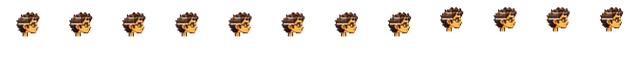
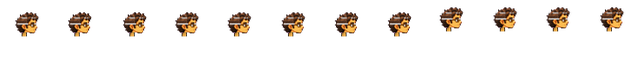
Versión 94: la cabeza sigue al torso en cada paso y todo el hobbit sube y baja 1 px al andar
Claude-Session: https://claude.ai/code/session_016LDX8s9ZoDhMCEDmCMU4bZ

diff --git a/public/index.html b/public/index.html
@@ -221,7 +221,7 @@ var SB_KEY = 'sb_publishable_1-eGqPkYOPKsW-ZEtUBo7A_16RQQGdK';
 var ATAJO = 'La Otra Comunidad';
 var STEPS_PER_KM = 1350, TOTAL_KM = 115;
 var LUGAR = {nombre:'Madrid', lat:40.43, lon:-3.81};
-var M = {"tramos": [[{"src": "assets/tramos/t1v_0.webp?v=162fa4d7", "y": -192, "v": 0.4, "hd": 3, "espejo": true}, {"src": "assets/tramos/t1v_1.webp?v=4642bb2a", "y": 209, "v": 1.0, "hd": 3, "espejo": true}], [{"src": "assets/tramos/t2v_0.webp?v=2ac7595f", "y": -192, "v": 0.4, "hd": 3, "espejo": true}, {"src": "assets/tramos/t2v_1.webp?v=07659e6a", "y": 209, "v": 1.0, "hd": 3, "espejo": true}], [{"src": "assets/tramos/t3v_0.webp?v=fb33aab2", "y": -192, "v": 0.4, "hd": 3, "espejo": true}, {"src": "assets/tramos/t3v_1.webp?v=42750449", "y": 209, "v": 1.0, "hd": 3, "espejo": true}], [{"src": "assets/tramos/t4v_0.webp?v=c2718a9c", "y": -192, "v": 0.4, "hd": 3, "espejo": true}, {"src": "assets/tramos/t4v_1.webp?v=0b370de7", "y": 209, "v": 1.0, "hd": 3, "espejo": true}], [{"src": "assets/tramos/t5_0.webp?v=f06aecc3", "y": 0, "v": 0.08}, {"src": "assets/tramos/t5_1.webp?v=f3abdd6c", "y": 31, "v": 0.3}, {"src": "assets/tramos/t5_2.webp?v=5110b3be", "y": 85, "v": 0.55}, {"src": "assets/tramos/t5_3.webp?v=a1aa4814", "y": 192, "v": 1.0}], [{"src": "assets/tramos/t6v_0.webp?v=380a0d06", "y": -192, "v": 0.4, "hd": 3, "espejo": true}, {"src": "assets/tramos/t6v_1.webp?v=ff66a92b", "y": 209, "v": 1.0, "hd": 3, "espejo": true}], [{"src": "assets/tramos/t7b_0.webp?v=4c93d6ac", "y": -192, "v": 0.4, "hd": 3, "espejo": true}, {"src": "assets/tramos/t7b_1.webp?v=16982fdd", "y": 210, "v": 1.0, "hd": 3, "espejo": true}], [{"src": "assets/tramos/t8b_0.webp?v=e0185a6c", "y": -192, "v": 0.4, "hd": 3, "espejo": true}, {"src": "assets/tramos/t8b_1.webp?v=5989f657", "y": 210, "v": 1.0, "hd": 3, "espejo": true}]], "arturo": ["assets/pj/arturo_normal.webp?v=7db8d380", "assets/pj/arturo_lluvia.webp?v=410e29f0", "assets/pj/arturo_noche.webp?v=a85f8b09", "assets/pj/arturo_calor.webp?v=5248314d"], "vecinos": ["assets/pj/vecino_1.webp?v=8c5299d1", "assets/pj/vecino_2.webp?v=0ad454f5", "assets/pj/vecino_3.webp?v=7460ffb8", "assets/pj/vecino_4.webp?v=a9dbcc5b"], "faces": "assets/pj/caras9.webp?v=749b1655", "logo": "assets/logo.webp?v=6e5698e6", "mj": {"pan": "assets/mj/zurron_pan.webp?v=eef983d0", "manta": "assets/mj/zurron_manta.webp?v=496c23db", "cuerda": "assets/mj/zurron_cuerda.webp?v=01c52897", "cantimplora": "assets/mj/zurron_cantimplora.webp?v=834316a1", "queso": "assets/mj/zurron_queso.webp?v=7897f985", "mapa": "assets/mj/zurron_mapa.webp?v=77a52314", "farol": "assets/mj/zurron_farol.webp?v=503f7f85", "pipa": "assets/mj/zurron_pipa.webp?v=ff72de42", "sillon": "assets/mj/zurron_sillon.webp?v=e2de97af", "reloj": "assets/mj/zurron_reloj.webp?v=f2e9850f", "cucharas": "assets/mj/zurron_cucharas.webp?v=ddf4903c", "paraguas": "assets/mj/zurron_paraguas.webp?v=29a8c29a", "jarron": "assets/mj/zurron_jarron.webp?v=0e426668", "libraco": "assets/mj/zurron_libraco.webp?v=d1d0c91f", "arbol": "assets/mj/arbol.webp?v=1d1e130a", "jinete1": "assets/mj/jinete1.webp?v=1bdb694e", "jinete2": "assets/mj/jinete2.webp?v=3dc1bbb4", "anillo": "assets/mj/anillo.webp?v=f785c169", "seta1": "assets/mj/seta1.webp?v=9166bdf3", "seta2": "assets/mj/seta2.webp?v=93212779", "seta3": "assets/mj/seta3.webp?v=a212aa81", "perro1": "assets/mj/perro1.webp?v=69bf8c3a", "perro2": "assets/mj/perro2.webp?v=b3a10435", "perro3": "assets/mj/perro3.webp?v=a5e4e2f7", "hoyo": "assets/mj/hoyo.webp?v=d29f43a1", "balsa1": "assets/mj/balsa1.webp?v=d45a7f5d", "balsa2": "assets/mj/balsa2.webp?v=d2719116", "rio": "assets/mj/rio.webp?v=aafc6b10", "muelle": "assets/mj/muelle.webp?v=592eaa57", "sombra": "assets/mj/sombra.webp?v=0652e012", "juncos": "assets/mj/juncos.webp?v=74e1fdc4"}, "papiro": "assets/papiro.webp?v=abe066ba", "andar": {"src": "assets/pj/arturo_andar.webp?v=7e62a290", "n": 6, "fw": 53.0, "h": 74}, "mapa": {"src": "assets/mapa2.webp?v=ce21c701", "w": 1200, "h": 4050, "ruta": [[596, 4048], [596, 4013], [456, 3532], [694, 3372], [745, 3094], [604, 2913], [623, 2816], [640, 2699], [655, 2640], [627, 2506], [603, 2143], [639, 1918], [609, 1630], [679, 1534], [656, 1331], [660, 1230], [677, 1154], [726, 1037], [658, 973], [578, 732], [641, 561], [507, 433], [615, 315], [654, 70], [654, 0]], "lugares": [[0, "Bols\u00f3n Cerrado", 4013], [5, "Delagua", 3532], [15, "Colinas Verdes", 3372], [35, "Bosque Cerrado", 3094], [55, "Atajo", 2913], [75, "La granja", 2816], [90, "Calzada", 2699], [110, "Balsadera", 2640], [115, "Cricava", 2506], [120, "La Cerca", 2143], [130, "Bosque Viejo", 1918], [145, "El Tornasauce", 1630], [150, "Casa de Tom Bombadil", 1534], [175, "Quebradas de los T\u00famulos", 1331], [200, "Camino del Este", 1230], [210, "Bree", 1154], [225, "Bosque de Chet", 1037], [250, "Pantanos de Moscagua", 973], [370, "Cima de los Vientos", 732], [530, "Puente \u00daltimo", 561], [600, "Landas de los Trolls", 433], [720, "Vado del Bruinen", 315], [740, "Rivendel", 70]]}, "equipo": {"capa": "assets/eq/capa.webp?v=0122b549", "sombrero": "assets/eq/sombrero.webp?v=f7dfac1a", "panuelo_sam": "assets/eq/panuelo_sam.webp?v=1a80a564", "cazo": "assets/eq/cazo.webp?v=22f7f48c", "broche": "assets/eq/broche.webp?v=6109e8ac", "panuelo_rojo": "assets/eq/panuelo_rojo.webp?v=fd15a308", "cantimplora_cinto": "assets/eq/cantimplora_cinto.webp?v=00c887d2", "pluma": "assets/eq/pluma.webp?v=1d6b2dd4", "gafas": "assets/eq/gafas.webp?v=0f0b85f1", "tiara": "assets/eq/tiara.webp?v=7de8e48f"}, "prologo": {"video": "assets/prologo/prologo.mp4?v=6f226176", "poster": "assets/prologo/poster.webp?v=0afee73e", "casa": "assets/prologo/casa.webp?v=e13a1dd5"}, "ilustraciones": ["assets/prologo/forja.webp?v=3a138e40", "assets/prologo/anillo.webp?v=0773b67f", "assets/prologo/guerra.webp?v=3dbb76a0", "assets/prologo/caido.webp?v=3f00fc99", "assets/prologo/rio.webp?v=f0525166", "assets/prologo/cueva.webp?v=53a6de1b", "assets/prologo/puerta.webp?v=9be18752", "assets/prologo/camino.webp?v=8554a997"], "npc": {"mago": ["assets/pj/mago_normal.webp?v=2dcb7716", "assets/pj/mago_lluvia.webp?v=3e964785", "assets/pj/mago_noche.webp?v=f6641a57", "assets/pj/mago_calor.webp?v=c90085e7"], "sombrero_azul": ["assets/pj/sombrero_azul_normal.webp?v=49dc044e", "assets/pj/sombrero_azul_lluvia.webp?v=dd90bf2a", "assets/pj/sombrero_azul_noche.webp?v=cf98f05d", "assets/pj/sombrero_azul_calor.webp?v=d65dd5f8"]}, "libro": {"0": "assets/libro/p1.webp?v=ef869ff9", "1": "assets/libro/p2.webp?v=6100887a", "2": "assets/libro/p3.webp?v=f87fd195", "3": "assets/libro/p4.webp?v=8c0c0014", "4": "assets/libro/p5.webp?v=a47588b7", "5": "assets/libro/p6.webp?v=7950004b", "6": "assets/libro/p7.webp?v=d7e44576", "7": "assets/libro/p8.webp?v=6766a419"}, "ropa": {"pantalon": "assets/pj/ropa_pantalon.webp?v=c61a7146", "capa": "assets/pj/ropa_capa.webp?v=e1faa8bf", "capa_f": "assets/pj/ropa_capa_f.webp?v=0c709b85", "capaFrame": {"fw": 84, "ox": -31}}, "props": {"senal": "assets/props/senal.webp?v=e7b2f572", "ovejas": "assets/props/ovejas.webp?v=311f376f", "carretilla": "assets/props/carretilla.webp?v=056e52f2", "piedra": "assets/props/piedra.webp?v=b27db386", "lena": "assets/props/lena.webp?v=4165f85f", "colmenas": "assets/props/colmenas.webp?v=b70b723c", "valla": "assets/props/valla.webp?v=4d295390", "setas": "assets/props/setas.webp?v=ce1dae4d", "pozo": "assets/props/pozo.webp?v=037c838e", "banco": "assets/props/banco.webp?v=c317202b", "zorro": "assets/props/zorro.webp?v=2bfaa8b8", "carro_heno": "assets/props/carro_heno.webp?v=d90f13e9"}, "escenas": [{"km": 9, "capas": [{"src": "assets/tramos/e09v_0.webp?v=9b272767", "y": -192, "v": 0.4, "hd": 3, "espejo": true}, {"src": "assets/tramos/e09v_1.webp?v=626f2e28", "y": 209, "v": 1.0, "hd": 3, "espejo": true}]}, {"km": 25, "capas": [{"src": "assets/tramos/e25_0.webp?v=f874360c", "y": -192, "v": 0.4, "hd": 3, "espejo": true}, {"src": "assets/tramos/e25_1.webp?v=dc8516e2", "y": 209, "v": 1.0, "hd": 3, "espejo": true}]}, {"km": 45, "capas": [{"src": "assets/tramos/e45_0.webp?v=0c496962", "y": -192, "v": 0.4, "hd": 3, "espejo": true}, {"src": "assets/tramos/e45_1.webp?v=f8b71963", "y": 209, "v": 1.0, "hd": 3, "espejo": true}]}, {"km": 65, "capas": [{"src": "assets/tramos/e65_0.webp?v=a730a4cb", "y": -192, "v": 0.4, "hd": 3, "espejo": true}, {"src": "assets/tramos/e65_1.webp?v=af390ea6", "y": 209, "v": 1.0, "hd": 3, "espejo": true}]}, {"km": 80, "capas": [{"src": "assets/tramos/e80_0.webp?v=2ae90a84", "y": -192, "v": 0.4, "hd": 3, "espejo": true}, {"src": "assets/tramos/e80_1.webp?v=656134e8", "y": 209, "v": 1.0, "hd": 3, "espejo": true}]}, {"km": 100, "capas": [{"src": "assets/tramos/e100_0.webp?v=96b4d4c3", "y": -192, "v": 0.4, "hd": 3, "espejo": true}, {"src": "assets/tramos/e100_1.webp?v=ff63ade0", "y": 209, "v": 1.0, "hd": 3, "espejo": true}]}, {"km": 113, "capas": [{"src": "assets/tramos/e113_0.webp?v=2f8c2840", "y": -192, "v": 0.4, "hd": 3, "espejo": true}, {"src": "assets/tramos/e113_1.webp?v=343cbb60", "y": 209, "v": 1.0, "hd": 3, "espejo": true}]}], "objetos": {"casa": "assets/mj/obj_casa.webp?v=11955867", "pipa": "assets/mj/obj_pipa.webp?v=9310f0ce", "hoja": "assets/mj/obj_hoja.webp?v=a4fb68a5", "estrella": "assets/mj/obj_estrella.webp?v=2718a702", "cayado": "assets/mj/obj_cayado.webp?v=346609ad", "cesta": "assets/mj/obj_cesta.webp?v=d1e05991", "farol": "assets/mj/obj_farol.webp?v=3c67590e", "balsa": "assets/mj/obj_balsa.webp?v=fcd81db0"}, "ropaIco": {"capa": "assets/eq/capa.webp?v=0122b549", "capa_verde": "assets/eq/capa_verde.webp?v=b5cc373a", "capa_granate": "assets/eq/capa_granate.webp?v=ec0bde53", "capa_gris": "assets/eq/capa_gris.webp?v=d2a75931", "pant_verde": "assets/eq/pant_verde.webp?v=1b3a8a49", "pant_azul": "assets/eq/pant_azul.webp?v=873e7563", "pant_gris": "assets/eq/pant_gris.webp?v=dc39d40e", "pant_mostaza": "assets/eq/pant_mostaza.webp?v=a53bb81c"}, "andarPJ": {"fer": {"src": "assets/pj/andar_fer.webp?v=a1960a01", "pantalon": "assets/pj/ropa_pantalon_fer.webp?v=ddc157ee", "capa": "assets/pj/ropa_capa_fer.webp?v=4ec3bc47", "capa_f": "assets/pj/ropa_capa_f_fer.webp?v=16a7a4cc", "n": 8, "ms": 160, "vel": 0.0356, "dx": [0, -3, 2, 2, -3, -3, 3, 4]}, "patri": {"src": "assets/pj/andar_patri.webp?v=6ce8bf24", "pantalon": "assets/pj/ropa_pantalon_patri.webp?v=3f92d97d", "capa": "assets/pj/ropa_capa_patri.webp?v=69ac1f75", "capa_f": "assets/pj/ropa_capa_f_patri.webp?v=a9eb8c68", "n": 8, "ms": 160, "vel": 0.0356, "dx": [0, -3, 2, 2, -3, -3, 3, 4]}, "juanpablo": {"src": "assets/pj/andar_juanpablo.webp?v=c89365f6", "pantalon": "assets/pj/ropa_pantalon_juanpablo.webp?v=eabcf1f7", "capa": "assets/pj/ropa_capa_juanpablo.webp?v=ef786ba2", "capa_f": "assets/pj/ropa_capa_f_juanpablo.webp?v=084549cb", "n": 8, "ms": 160, "vel": 0.0356, "dx": [0, 0, 0, 0, 0, 0, 0, 0]}, "arturo": {"src": "assets/pj/andar_arturo.webp?v=c15a4cbf", "pantalon": "assets/pj/ropa_pantalon_arturo.webp?v=5fb87995", "capa": "assets/pj/ropa_capa_arturo.webp?v=0658b58c", "capa_f": "assets/pj/ropa_capa_f_arturo.webp?v=f4b0b94a", "n": 8, "ms": 160, "vel": 0.0344, "dx": [0, -4, 0, 4, 0, -4, 0, 4]}, "edo": {"src": "assets/pj/andar_edo.webp?v=874feaf0", "pantalon": "assets/pj/ropa_pantalon_edo.webp?v=be0ca919", "capa": "assets/pj/ropa_capa_edo.webp?v=16ef3acf", "capa_f": "assets/pj/ropa_capa_f_edo.webp?v=50e3d11f", "n": 8, "ms": 160, "vel": 0.0344, "dx": [0, -4, 0, 4, 0, -4, 0, 4]}}, "menu": {"forja": "assets/menu/forja.webp?v=32eaa4c1", "anillo": "assets/menu/anillo.webp?v=2edff033", "chispas": {"src": "assets/menu/chispas.webp?v=7a0e8284", "n": 6, "fw": 125, "h": 262}, "herrero": {"src": "assets/menu/herrero.webp?v=8d4a16d2", "n": 4, "fw": 320, "h": 295}}, "ui": {"redondo": "assets/ui/redondo.webp?v=553a38ab", "redondo_on": "assets/ui/redondo_on.webp?v=d47c1e86", "largo": "assets/ui/largo.webp?v=21b6a8ab", "largo_on": "assets/ui/largo_on.webp?v=b4d3082f", "i_mapa": "assets/ui/i_mapa.webp?v=baf5a951", "i_libro": "assets/ui/i_libro.webp?v=65e306af", "i_comunidad": "assets/ui/i_comunidad.webp?v=ba394914", "i_zurron": "assets/ui/i_zurron.webp?v=801f3a01", "i_sync": "assets/ui/i_sync.webp?v=56462d84", "i_hoja": "assets/ui/i_hoja.webp?v=f8fe9299", "placa_pasos": "assets/ui/placa_pasos.webp?v=12bec8e1", "destellos": "assets/ui/destellos.webp?v=b74326dc", "fondo_menu": "assets/ui/fondo_menu.webp?v=0cf7211a", "hoja_menu": "assets/ui/hoja_menu.webp?v=82f13f93"}, "facesN": 9, "quietoPJ": {"fer": {"src": "assets/pj/quieto_fer.webp?v=2d287b87", "pantalon": "assets/pj/ropa_pantalon_quieto_fer.webp?v=2a5fa9ec", "capa": "assets/pj/ropa_capa_quieto_fer.webp?v=748a63a8", "capa_f": "assets/pj/ropa_capa_f_quieto_fer.webp?v=9d786b24", "n": 4, "ms": 450}, "patri": {"src": "assets/pj/quieto_patri.webp?v=e8935790", "pantalon": "assets/pj/ropa_pantalon_quieto_patri.webp?v=b4969e48", "capa": "assets/pj/ropa_capa_quieto_patri.webp?v=26634d11", "capa_f": "assets/pj/ropa_capa_f_quieto_patri.webp?v=328aff4d", "n": 4, "ms": 450}, "adrian": {"src": "assets/pj/quieto_adrian.webp?v=b81deb89", "pantalon": "assets/pj/ropa_pantalon_quieto_adrian.webp?v=5525cad1", "capa": "assets/pj/ropa_capa_quieto_adrian.webp?v=a22c0b8a", "capa_f": "assets/pj/ropa_capa_f_quieto_adrian.webp?v=6c51806e", "n": 4, "ms": 450}, "carlos": {"src": "assets/pj/quieto_carlos.webp?v=c5a30670", "pantalon": "assets/pj/ropa_pantalon_quieto_carlos.webp?v=b82e99a6", "capa": "assets/pj/ropa_capa_quieto_carlos.webp?v=5d3f98c6", "capa_f": "assets/pj/ropa_capa_f_quieto_carlos.webp?v=d8920044", "n": 4, "ms": 450}, "juanpablo": {"src": "assets/pj/quieto_juanpablo.webp?v=6e704838", "pantalon": "assets/pj/ropa_pantalon_quieto_juanpablo.webp?v=cd8fb44e", "capa": "assets/pj/ropa_capa_quieto_juanpablo.webp?v=c7daa765", "capa_f": "assets/pj/ropa_capa_f_quieto_juanpablo.webp?v=383cb623", "n": 4, "ms": 450}, "arturo": {"src": "assets/pj/quieto_arturo.webp?v=a137794f", "pantalon": "assets/pj/ropa_pantalon_quieto_arturo.webp?v=41e5d86c", "capa": "assets/pj/ropa_capa_quieto_arturo.webp?v=4d687a5b", "capa_f": "assets/pj/ropa_capa_f_quieto_arturo.webp?v=31b81915", "n": 4, "ms": 450}, "edo": {"src": "assets/pj/quieto_edo.webp?v=25a809fa", "pantalon": "assets/pj/ropa_pantalon_quieto_edo.webp?v=ec1ecdb7", "capa": "assets/pj/ropa_capa_quieto_edo.webp?v=f5d0127d", "capa_f": "assets/pj/ropa_capa_f_quieto_edo.webp?v=ff69cc07", "n": 4, "ms": 450}}, "fp": [{"tramo": 3, "fondo": "assets/fp/bosque_fondo.webp?v=d94309cc", "delante": "assets/fp/bosque_delante.webp?v=4903fead", "manos": {"src": "assets/fp/manos.webp?v=7ba225f5", "n": 4, "fw": 325, "h": 434}, "fuga": [0.5, 0.56], "luces": [[0.47, 0.565], [0.51, 0.548], [0.545, 0.565], [0.455, 0.575]], "hasta": 45}], "escenaElfos": ["assets/escenas/elfos1.webp?v=821cfc4d", "assets/escenas/elfos2.webp?v=a89595ed", "assets/escenas/elfos3.webp?v=2f3b37c6"], "entreactos": {"1": {"video": "assets/entreactos/acto1.mp4?v=24d497d1", "poster": "assets/entreactos/acto1.webp?v=4f4a3739"}}, "capas": {"capas": {"cuerpo": "assets/pj/capas/cuerpo.webp?v=66200e3b", "capa": "assets/pj/capas/capa.webp?v=2d14e53d", "pantalon": "assets/pj/capas/pantalon.webp?v=fc330ced", "mochila": "assets/pj/capas/mochila.webp?v=8a00b540", "cantimplora": "assets/pj/capas/cantimplora.webp?v=6987245d"}, "cabezas": {"arturo": "assets/pj/capas/cab_arturo.webp?v=1e887d1c", "fer": "assets/pj/capas/cab_fer.webp?v=2d348472", "patri": "assets/pj/capas/cab_patri.webp?v=2049b85b", "edo": "assets/pj/capas/cab_edo.webp?v=b253ae95", "carlos": "assets/pj/capas/cab_carlos.webp?v=aef9f28a", "porru": "assets/pj/capas/cab_porru.webp?v=f725902e", "adrian": "assets/pj/capas/cab_adrian.webp?v=fc9d4feb", "rodri": "assets/pj/capas/cab_rodri.webp?v=0bfc12ad", "juanpablo": "assets/pj/capas/cab_juanpablo.webp?v=986fa199"}}};
+var M = {"tramos": [[{"src": "assets/tramos/t1v_0.webp?v=162fa4d7", "y": -192, "v": 0.4, "hd": 3, "espejo": true}, {"src": "assets/tramos/t1v_1.webp?v=4642bb2a", "y": 209, "v": 1.0, "hd": 3, "espejo": true}], [{"src": "assets/tramos/t2v_0.webp?v=2ac7595f", "y": -192, "v": 0.4, "hd": 3, "espejo": true}, {"src": "assets/tramos/t2v_1.webp?v=07659e6a", "y": 209, "v": 1.0, "hd": 3, "espejo": true}], [{"src": "assets/tramos/t3v_0.webp?v=fb33aab2", "y": -192, "v": 0.4, "hd": 3, "espejo": true}, {"src": "assets/tramos/t3v_1.webp?v=42750449", "y": 209, "v": 1.0, "hd": 3, "espejo": true}], [{"src": "assets/tramos/t4v_0.webp?v=c2718a9c", "y": -192, "v": 0.4, "hd": 3, "espejo": true}, {"src": "assets/tramos/t4v_1.webp?v=0b370de7", "y": 209, "v": 1.0, "hd": 3, "espejo": true}], [{"src": "assets/tramos/t5_0.webp?v=f06aecc3", "y": 0, "v": 0.08}, {"src": "assets/tramos/t5_1.webp?v=f3abdd6c", "y": 31, "v": 0.3}, {"src": "assets/tramos/t5_2.webp?v=5110b3be", "y": 85, "v": 0.55}, {"src": "assets/tramos/t5_3.webp?v=a1aa4814", "y": 192, "v": 1.0}], [{"src": "assets/tramos/t6v_0.webp?v=380a0d06", "y": -192, "v": 0.4, "hd": 3, "espejo": true}, {"src": "assets/tramos/t6v_1.webp?v=ff66a92b", "y": 209, "v": 1.0, "hd": 3, "espejo": true}], [{"src": "assets/tramos/t7b_0.webp?v=4c93d6ac", "y": -192, "v": 0.4, "hd": 3, "espejo": true}, {"src": "assets/tramos/t7b_1.webp?v=16982fdd", "y": 210, "v": 1.0, "hd": 3, "espejo": true}], [{"src": "assets/tramos/t8b_0.webp?v=e0185a6c", "y": -192, "v": 0.4, "hd": 3, "espejo": true}, {"src": "assets/tramos/t8b_1.webp?v=5989f657", "y": 210, "v": 1.0, "hd": 3, "espejo": true}]], "arturo": ["assets/pj/arturo_normal.webp?v=7db8d380", "assets/pj/arturo_lluvia.webp?v=410e29f0", "assets/pj/arturo_noche.webp?v=a85f8b09", "assets/pj/arturo_calor.webp?v=5248314d"], "vecinos": ["assets/pj/vecino_1.webp?v=8c5299d1", "assets/pj/vecino_2.webp?v=0ad454f5", "assets/pj/vecino_3.webp?v=7460ffb8", "assets/pj/vecino_4.webp?v=a9dbcc5b"], "faces": "assets/pj/caras9.webp?v=749b1655", "logo": "assets/logo.webp?v=6e5698e6", "mj": {"pan": "assets/mj/zurron_pan.webp?v=eef983d0", "manta": "assets/mj/zurron_manta.webp?v=496c23db", "cuerda": "assets/mj/zurron_cuerda.webp?v=01c52897", "cantimplora": "assets/mj/zurron_cantimplora.webp?v=834316a1", "queso": "assets/mj/zurron_queso.webp?v=7897f985", "mapa": "assets/mj/zurron_mapa.webp?v=77a52314", "farol": "assets/mj/zurron_farol.webp?v=503f7f85", "pipa": "assets/mj/zurron_pipa.webp?v=ff72de42", "sillon": "assets/mj/zurron_sillon.webp?v=e2de97af", "reloj": "assets/mj/zurron_reloj.webp?v=f2e9850f", "cucharas": "assets/mj/zurron_cucharas.webp?v=ddf4903c", "paraguas": "assets/mj/zurron_paraguas.webp?v=29a8c29a", "jarron": "assets/mj/zurron_jarron.webp?v=0e426668", "libraco": "assets/mj/zurron_libraco.webp?v=d1d0c91f", "arbol": "assets/mj/arbol.webp?v=1d1e130a", "jinete1": "assets/mj/jinete1.webp?v=1bdb694e", "jinete2": "assets/mj/jinete2.webp?v=3dc1bbb4", "anillo": "assets/mj/anillo.webp?v=f785c169", "seta1": "assets/mj/seta1.webp?v=9166bdf3", "seta2": "assets/mj/seta2.webp?v=93212779", "seta3": "assets/mj/seta3.webp?v=a212aa81", "perro1": "assets/mj/perro1.webp?v=69bf8c3a", "perro2": "assets/mj/perro2.webp?v=b3a10435", "perro3": "assets/mj/perro3.webp?v=a5e4e2f7", "hoyo": "assets/mj/hoyo.webp?v=d29f43a1", "balsa1": "assets/mj/balsa1.webp?v=d45a7f5d", "balsa2": "assets/mj/balsa2.webp?v=d2719116", "rio": "assets/mj/rio.webp?v=aafc6b10", "muelle": "assets/mj/muelle.webp?v=592eaa57", "sombra": "assets/mj/sombra.webp?v=0652e012", "juncos": "assets/mj/juncos.webp?v=74e1fdc4"}, "papiro": "assets/papiro.webp?v=abe066ba", "andar": {"src": "assets/pj/arturo_andar.webp?v=7e62a290", "n": 6, "fw": 53.0, "h": 74}, "mapa": {"src": "assets/mapa2.webp?v=ce21c701", "w": 1200, "h": 4050, "ruta": [[596, 4048], [596, 4013], [456, 3532], [694, 3372], [745, 3094], [604, 2913], [623, 2816], [640, 2699], [655, 2640], [627, 2506], [603, 2143], [639, 1918], [609, 1630], [679, 1534], [656, 1331], [660, 1230], [677, 1154], [726, 1037], [658, 973], [578, 732], [641, 561], [507, 433], [615, 315], [654, 70], [654, 0]], "lugares": [[0, "Bols\u00f3n Cerrado", 4013], [5, "Delagua", 3532], [15, "Colinas Verdes", 3372], [35, "Bosque Cerrado", 3094], [55, "Atajo", 2913], [75, "La granja", 2816], [90, "Calzada", 2699], [110, "Balsadera", 2640], [115, "Cricava", 2506], [120, "La Cerca", 2143], [130, "Bosque Viejo", 1918], [145, "El Tornasauce", 1630], [150, "Casa de Tom Bombadil", 1534], [175, "Quebradas de los T\u00famulos", 1331], [200, "Camino del Este", 1230], [210, "Bree", 1154], [225, "Bosque de Chet", 1037], [250, "Pantanos de Moscagua", 973], [370, "Cima de los Vientos", 732], [530, "Puente \u00daltimo", 561], [600, "Landas de los Trolls", 433], [720, "Vado del Bruinen", 315], [740, "Rivendel", 70]]}, "equipo": {"capa": "assets/eq/capa.webp?v=0122b549", "sombrero": "assets/eq/sombrero.webp?v=f7dfac1a", "panuelo_sam": "assets/eq/panuelo_sam.webp?v=1a80a564", "cazo": "assets/eq/cazo.webp?v=22f7f48c", "broche": "assets/eq/broche.webp?v=6109e8ac", "panuelo_rojo": "assets/eq/panuelo_rojo.webp?v=fd15a308", "cantimplora_cinto": "assets/eq/cantimplora_cinto.webp?v=00c887d2", "pluma": "assets/eq/pluma.webp?v=1d6b2dd4", "gafas": "assets/eq/gafas.webp?v=0f0b85f1", "tiara": "assets/eq/tiara.webp?v=7de8e48f"}, "prologo": {"video": "assets/prologo/prologo.mp4?v=6f226176", "poster": "assets/prologo/poster.webp?v=0afee73e", "casa": "assets/prologo/casa.webp?v=e13a1dd5"}, "ilustraciones": ["assets/prologo/forja.webp?v=3a138e40", "assets/prologo/anillo.webp?v=0773b67f", "assets/prologo/guerra.webp?v=3dbb76a0", "assets/prologo/caido.webp?v=3f00fc99", "assets/prologo/rio.webp?v=f0525166", "assets/prologo/cueva.webp?v=53a6de1b", "assets/prologo/puerta.webp?v=9be18752", "assets/prologo/camino.webp?v=8554a997"], "npc": {"mago": ["assets/pj/mago_normal.webp?v=2dcb7716", "assets/pj/mago_lluvia.webp?v=3e964785", "assets/pj/mago_noche.webp?v=f6641a57", "assets/pj/mago_calor.webp?v=c90085e7"], "sombrero_azul": ["assets/pj/sombrero_azul_normal.webp?v=49dc044e", "assets/pj/sombrero_azul_lluvia.webp?v=dd90bf2a", "assets/pj/sombrero_azul_noche.webp?v=cf98f05d", "assets/pj/sombrero_azul_calor.webp?v=d65dd5f8"]}, "libro": {"0": "assets/libro/p1.webp?v=ef869ff9", "1": "assets/libro/p2.webp?v=6100887a", "2": "assets/libro/p3.webp?v=f87fd195", "3": "assets/libro/p4.webp?v=8c0c0014", "4": "assets/libro/p5.webp?v=a47588b7", "5": "assets/libro/p6.webp?v=7950004b", "6": "assets/libro/p7.webp?v=d7e44576", "7": "assets/libro/p8.webp?v=6766a419"}, "ropa": {"pantalon": "assets/pj/ropa_pantalon.webp?v=c61a7146", "capa": "assets/pj/ropa_capa.webp?v=e1faa8bf", "capa_f": "assets/pj/ropa_capa_f.webp?v=0c709b85", "capaFrame": {"fw": 84, "ox": -31}}, "props": {"senal": "assets/props/senal.webp?v=e7b2f572", "ovejas": "assets/props/ovejas.webp?v=311f376f", "carretilla": "assets/props/carretilla.webp?v=056e52f2", "piedra": "assets/props/piedra.webp?v=b27db386", "lena": "assets/props/lena.webp?v=4165f85f", "colmenas": "assets/props/colmenas.webp?v=b70b723c", "valla": "assets/props/valla.webp?v=4d295390", "setas": "assets/props/setas.webp?v=ce1dae4d", "pozo": "assets/props/pozo.webp?v=037c838e", "banco": "assets/props/banco.webp?v=c317202b", "zorro": "assets/props/zorro.webp?v=2bfaa8b8", "carro_heno": "assets/props/carro_heno.webp?v=d90f13e9"}, "escenas": [{"km": 9, "capas": [{"src": "assets/tramos/e09v_0.webp?v=9b272767", "y": -192, "v": 0.4, "hd": 3, "espejo": true}, {"src": "assets/tramos/e09v_1.webp?v=626f2e28", "y": 209, "v": 1.0, "hd": 3, "espejo": true}]}, {"km": 25, "capas": [{"src": "assets/tramos/e25_0.webp?v=f874360c", "y": -192, "v": 0.4, "hd": 3, "espejo": true}, {"src": "assets/tramos/e25_1.webp?v=dc8516e2", "y": 209, "v": 1.0, "hd": 3, "espejo": true}]}, {"km": 45, "capas": [{"src": "assets/tramos/e45_0.webp?v=0c496962", "y": -192, "v": 0.4, "hd": 3, "espejo": true}, {"src": "assets/tramos/e45_1.webp?v=f8b71963", "y": 209, "v": 1.0, "hd": 3, "espejo": true}]}, {"km": 65, "capas": [{"src": "assets/tramos/e65_0.webp?v=a730a4cb", "y": -192, "v": 0.4, "hd": 3, "espejo": true}, {"src": "assets/tramos/e65_1.webp?v=af390ea6", "y": 209, "v": 1.0, "hd": 3, "espejo": true}]}, {"km": 80, "capas": [{"src": "assets/tramos/e80_0.webp?v=2ae90a84", "y": -192, "v": 0.4, "hd": 3, "espejo": true}, {"src": "assets/tramos/e80_1.webp?v=656134e8", "y": 209, "v": 1.0, "hd": 3, "espejo": true}]}, {"km": 100, "capas": [{"src": "assets/tramos/e100_0.webp?v=96b4d4c3", "y": -192, "v": 0.4, "hd": 3, "espejo": true}, {"src": "assets/tramos/e100_1.webp?v=ff63ade0", "y": 209, "v": 1.0, "hd": 3, "espejo": true}]}, {"km": 113, "capas": [{"src": "assets/tramos/e113_0.webp?v=2f8c2840", "y": -192, "v": 0.4, "hd": 3, "espejo": true}, {"src": "assets/tramos/e113_1.webp?v=343cbb60", "y": 209, "v": 1.0, "hd": 3, "espejo": true}]}], "objetos": {"casa": "assets/mj/obj_casa.webp?v=11955867", "pipa": "assets/mj/obj_pipa.webp?v=9310f0ce", "hoja": "assets/mj/obj_hoja.webp?v=a4fb68a5", "estrella": "assets/mj/obj_estrella.webp?v=2718a702", "cayado": "assets/mj/obj_cayado.webp?v=346609ad", "cesta": "assets/mj/obj_cesta.webp?v=d1e05991", "farol": "assets/mj/obj_farol.webp?v=3c67590e", "balsa": "assets/mj/obj_balsa.webp?v=fcd81db0"}, "ropaIco": {"capa": "assets/eq/capa.webp?v=0122b549", "capa_verde": "assets/eq/capa_verde.webp?v=b5cc373a", "capa_granate": "assets/eq/capa_granate.webp?v=ec0bde53", "capa_gris": "assets/eq/capa_gris.webp?v=d2a75931", "pant_verde": "assets/eq/pant_verde.webp?v=1b3a8a49", "pant_azul": "assets/eq/pant_azul.webp?v=873e7563", "pant_gris": "assets/eq/pant_gris.webp?v=dc39d40e", "pant_mostaza": "assets/eq/pant_mostaza.webp?v=a53bb81c"}, "andarPJ": {"fer": {"src": "assets/pj/andar_fer.webp?v=a1960a01", "pantalon": "assets/pj/ropa_pantalon_fer.webp?v=ddc157ee", "capa": "assets/pj/ropa_capa_fer.webp?v=4ec3bc47", "capa_f": "assets/pj/ropa_capa_f_fer.webp?v=16a7a4cc", "n": 8, "ms": 160, "vel": 0.0356, "dx": [0, -3, 2, 2, -3, -3, 3, 4]}, "patri": {"src": "assets/pj/andar_patri.webp?v=6ce8bf24", "pantalon": "assets/pj/ropa_pantalon_patri.webp?v=3f92d97d", "capa": "assets/pj/ropa_capa_patri.webp?v=69ac1f75", "capa_f": "assets/pj/ropa_capa_f_patri.webp?v=a9eb8c68", "n": 8, "ms": 160, "vel": 0.0356, "dx": [0, -3, 2, 2, -3, -3, 3, 4]}, "juanpablo": {"src": "assets/pj/andar_juanpablo.webp?v=c89365f6", "pantalon": "assets/pj/ropa_pantalon_juanpablo.webp?v=eabcf1f7", "capa": "assets/pj/ropa_capa_juanpablo.webp?v=ef786ba2", "capa_f": "assets/pj/ropa_capa_f_juanpablo.webp?v=084549cb", "n": 8, "ms": 160, "vel": 0.0356, "dx": [0, 0, 0, 0, 0, 0, 0, 0]}, "arturo": {"src": "assets/pj/andar_arturo.webp?v=c15a4cbf", "pantalon": "assets/pj/ropa_pantalon_arturo.webp?v=5fb87995", "capa": "assets/pj/ropa_capa_arturo.webp?v=0658b58c", "capa_f": "assets/pj/ropa_capa_f_arturo.webp?v=f4b0b94a", "n": 8, "ms": 160, "vel": 0.0344, "dx": [0, -4, 0, 4, 0, -4, 0, 4]}, "edo": {"src": "assets/pj/andar_edo.webp?v=874feaf0", "pantalon": "assets/pj/ropa_pantalon_edo.webp?v=be0ca919", "capa": "assets/pj/ropa_capa_edo.webp?v=16ef3acf", "capa_f": "assets/pj/ropa_capa_f_edo.webp?v=50e3d11f", "n": 8, "ms": 160, "vel": 0.0344, "dx": [0, -4, 0, 4, 0, -4, 0, 4]}}, "menu": {"forja": "assets/menu/forja.webp?v=32eaa4c1", "anillo": "assets/menu/anillo.webp?v=2edff033", "chispas": {"src": "assets/menu/chispas.webp?v=7a0e8284", "n": 6, "fw": 125, "h": 262}, "herrero": {"src": "assets/menu/herrero.webp?v=8d4a16d2", "n": 4, "fw": 320, "h": 295}}, "ui": {"redondo": "assets/ui/redondo.webp?v=553a38ab", "redondo_on": "assets/ui/redondo_on.webp?v=d47c1e86", "largo": "assets/ui/largo.webp?v=21b6a8ab", "largo_on": "assets/ui/largo_on.webp?v=b4d3082f", "i_mapa": "assets/ui/i_mapa.webp?v=baf5a951", "i_libro": "assets/ui/i_libro.webp?v=65e306af", "i_comunidad": "assets/ui/i_comunidad.webp?v=ba394914", "i_zurron": "assets/ui/i_zurron.webp?v=801f3a01", "i_sync": "assets/ui/i_sync.webp?v=56462d84", "i_hoja": "assets/ui/i_hoja.webp?v=f8fe9299", "placa_pasos": "assets/ui/placa_pasos.webp?v=12bec8e1", "destellos": "assets/ui/destellos.webp?v=b74326dc", "fondo_menu": "assets/ui/fondo_menu.webp?v=0cf7211a", "hoja_menu": "assets/ui/hoja_menu.webp?v=82f13f93"}, "facesN": 9, "quietoPJ": {"fer": {"src": "assets/pj/quieto_fer.webp?v=2d287b87", "pantalon": "assets/pj/ropa_pantalon_quieto_fer.webp?v=2a5fa9ec", "capa": "assets/pj/ropa_capa_quieto_fer.webp?v=748a63a8", "capa_f": "assets/pj/ropa_capa_f_quieto_fer.webp?v=9d786b24", "n": 4, "ms": 450}, "patri": {"src": "assets/pj/quieto_patri.webp?v=e8935790", "pantalon": "assets/pj/ropa_pantalon_quieto_patri.webp?v=b4969e48", "capa": "assets/pj/ropa_capa_quieto_patri.webp?v=26634d11", "capa_f": "assets/pj/ropa_capa_f_quieto_patri.webp?v=328aff4d", "n": 4, "ms": 450}, "adrian": {"src": "assets/pj/quieto_adrian.webp?v=b81deb89", "pantalon": "assets/pj/ropa_pantalon_quieto_adrian.webp?v=5525cad1", "capa": "assets/pj/ropa_capa_quieto_adrian.webp?v=a22c0b8a", "capa_f": "assets/pj/ropa_capa_f_quieto_adrian.webp?v=6c51806e", "n": 4, "ms": 450}, "carlos": {"src": "assets/pj/quieto_carlos.webp?v=c5a30670", "pantalon": "assets/pj/ropa_pantalon_quieto_carlos.webp?v=b82e99a6", "capa": "assets/pj/ropa_capa_quieto_carlos.webp?v=5d3f98c6", "capa_f": "assets/pj/ropa_capa_f_quieto_carlos.webp?v=d8920044", "n": 4, "ms": 450}, "juanpablo": {"src": "assets/pj/quieto_juanpablo.webp?v=6e704838", "pantalon": "assets/pj/ropa_pantalon_quieto_juanpablo.webp?v=cd8fb44e", "capa": "assets/pj/ropa_capa_quieto_juanpablo.webp?v=c7daa765", "capa_f": "assets/pj/ropa_capa_f_quieto_juanpablo.webp?v=383cb623", "n": 4, "ms": 450}, "arturo": {"src": "assets/pj/quieto_arturo.webp?v=a137794f", "pantalon": "assets/pj/ropa_pantalon_quieto_arturo.webp?v=41e5d86c", "capa": "assets/pj/ropa_capa_quieto_arturo.webp?v=4d687a5b", "capa_f": "assets/pj/ropa_capa_f_quieto_arturo.webp?v=31b81915", "n": 4, "ms": 450}, "edo": {"src": "assets/pj/quieto_edo.webp?v=25a809fa", "pantalon": "assets/pj/ropa_pantalon_quieto_edo.webp?v=ec1ecdb7", "capa": "assets/pj/ropa_capa_quieto_edo.webp?v=f5d0127d", "capa_f": "assets/pj/ropa_capa_f_quieto_edo.webp?v=ff69cc07", "n": 4, "ms": 450}}, "fp": [{"tramo": 3, "fondo": "assets/fp/bosque_fondo.webp?v=d94309cc", "delante": "assets/fp/bosque_delante.webp?v=4903fead", "manos": {"src": "assets/fp/manos.webp?v=7ba225f5", "n": 4, "fw": 325, "h": 434}, "fuga": [0.5, 0.56], "luces": [[0.47, 0.565], [0.51, 0.548], [0.545, 0.565], [0.455, 0.575]], "hasta": 45}], "escenaElfos": ["assets/escenas/elfos1.webp?v=821cfc4d", "assets/escenas/elfos2.webp?v=a89595ed", "assets/escenas/elfos3.webp?v=2f3b37c6"], "entreactos": {"1": {"video": "assets/entreactos/acto1.mp4?v=24d497d1", "poster": "assets/entreactos/acto1.webp?v=4f4a3739"}}, "capas": {"capas": {"cuerpo": "assets/pj/capas/cuerpo.webp?v=66200e3b", "capa": "assets/pj/capas/capa.webp?v=2d14e53d", "pantalon": "assets/pj/capas/pantalon.webp?v=fc330ced", "mochila": "assets/pj/capas/mochila.webp?v=8a00b540", "cantimplora": "assets/pj/capas/cantimplora.webp?v=6987245d"}, "cabezas": {"arturo": "assets/pj/capas/cab_arturo.webp?v=1f496006", "fer": "assets/pj/capas/cab_fer.webp?v=bd41ebfc", "patri": "assets/pj/capas/cab_patri.webp?v=e2c27416", "edo": "assets/pj/capas/cab_edo.webp?v=fc05b62e", "carlos": "assets/pj/capas/cab_carlos.webp?v=832a602c", "porru": "assets/pj/capas/cab_porru.webp?v=229f9c02", "adrian": "assets/pj/capas/cab_adrian.webp?v=370a428b", "rodri": "assets/pj/capas/cab_rodri.webp?v=3e66b4da", "juanpablo": "assets/pj/capas/cab_juanpablo.webp?v=01cd4c9c"}}};
 var FACE = {porru:0, adrian:1, carlos:2, fer:3, edo:4, rodri:5, arturo:6, patri:7, juanpablo:8};
 var FACEN = M.facesN||7;
 var ICON = {
@@ -2210,7 +2210,10 @@ function salirRecuerdo(){ RECUERDO=null; PASEO.dir=0; document.body.classList.re
     if(cant) x.drawImage(IM.cantimplora,0,0);
     x.drawImage(IM.mochila,0,0);
     x.drawImage(IM['cab_'+h],0,0);
-    function trozo(a,b){ var c=document.createElement('canvas'); c.width=FW*(b-a); c.height=FH; c.getContext('2d').drawImage(cv,FW*a,0,FW*(b-a),FH,0,0,FW*(b-a),FH); c.complete=true; return c; }
+    /* al andar todo el hobbit (cuerpo y cabeza juntos) sube y baja 1 px: abajo con las piernas abiertas, arriba al cruzarlas */
+    var BOB=[1,0,-1,0,1,0,-1,0];
+    function trozo(a,b){ var c=document.createElement('canvas'); c.width=FW*(b-a); c.height=FH; var g=c.getContext('2d'); g.imageSmoothingEnabled=false;
+      for(var f=a;f<b;f++) g.drawImage(cv,FW*f,0,FW,FH,FW*(f-a),(a===0?BOB[f]:0),FW,FH); c.complete=true; return c; }
     WALK=trozo(0,8); M.andar=Object.assign({},M.andar,{n:8,fw:FW,h:FH,ms:160,vel:0.0344,dx:null}); ANCLA=null;
     ROPAIMG={}; TINTC={};  /* la ropa ya va dibujada en el cuerpo */
     QPOSE={n:4,ms:450,img:trozo(8,12),ropa:{},tintc:{},ancla:null};

diff --git a/minijuegos.js b/minijuegos.js
@@ -1446,7 +1446,10 @@ function salirRecuerdo(){ RECUERDO=null; PASEO.dir=0; document.body.classList.re
     if(cant) x.drawImage(IM.cantimplora,0,0);
     x.drawImage(IM.mochila,0,0);
     x.drawImage(IM['cab_'+h],0,0);
-    function trozo(a,b){ var c=document.createElement('canvas'); c.width=FW*(b-a); c.height=FH; c.getContext('2d').drawImage(cv,FW*a,0,FW*(b-a),FH,0,0,FW*(b-a),FH); c.complete=true; return c; }
+    /* al andar todo el hobbit (cuerpo y cabeza juntos) sube y baja 1 px: abajo con las piernas abiertas, arriba al cruzarlas */
+    var BOB=[1,0,-1,0,1,0,-1,0];
+    function trozo(a,b){ var c=document.createElement('canvas'); c.width=FW*(b-a); c.height=FH; var g=c.getContext('2d'); g.imageSmoothingEnabled=false;
+      for(var f=a;f<b;f++) g.drawImage(cv,FW*f,0,FW,FH,FW*(f-a),(a===0?BOB[f]:0),FW,FH); c.complete=true; return c; }
     WALK=trozo(0,8); M.andar=Object.assign({},M.andar,{n:8,fw:FW,h:FH,ms:160,vel:0.0344,dx:null}); ANCLA=null;
     ROPAIMG={}; TINTC={};  /* la ropa ya va dibujada en el cuerpo */
     QPOSE={n:4,ms:450,img:trozo(8,12),ropa:{},tintc:{},ancla:null};

diff --git a/public/sw.js b/public/sw.js
@@ -1,5 +1,5 @@
 /* La Otra Comunidad · caché básica para que abra rápido y funcione con mala cobertura */
-var C='loc-v92';
+var C='loc-v93';
 self.addEventListener('install',function(e){ self.skipWaiting(); });
 self.addEventListener('activate',function(e){ e.waitUntil(caches.keys().then(function(k){ return Promise.all(k.filter(function(x){return x!==C;}).map(function(x){return caches.delete(x);})); }).then(function(){ return self.clients.claim(); })); });
 self.addEventListener('fetch',function(e){

diff --git a/tools/capas.py b/tools/capas.py
@@ -38,9 +38,15 @@ for c in cells:
     lab,n=ndimage.label(m); sz=ndimage.sum(m,lab,range(1,n+1)); ys,xs=np.nonzero(lab==np.argmax(sz)+1)
     c['hb']=ys.max()+y0; c['hx']=xs.mean()+x0      # base y centro de la cabeza del cuerpo
 # misma altura y mismo centro en todos los fotogramas de cada fila: la cabeza no baila
+# la cabeza sigue al TORSO en cada fotograma (el cuerpo se balancea a los lados al andar; la cabeza con él)
+_sh=~isMag(_b)&~_cy&~isLine(_b)
+for c in cells:
+    x0=int(c['hx'])-60; t=c['hb']-17
+    ch=np.nonzero(_sh[t+40,x0-40:x0+160])[0]+x0-40; c['torso']=ch.mean()
 for r in set(c['row'] for c in cells):
     F=[c for c in cells if c['row']==r]; hb=int(np.median([c['hb'] for c in F]))
-    for c in F: c['hb']=hb
+    off=np.median([c['hx']-c['torso'] for c in F])
+    for c in F: c['hb']=hb; c['hx']=c['torso']+off
 FW,FH=53,74; S=60/MH  # el maniquí mide 60 px en el juego
 def limpio(a):
     r,g,b=a[...,0],a[...,1],a[...,2]
